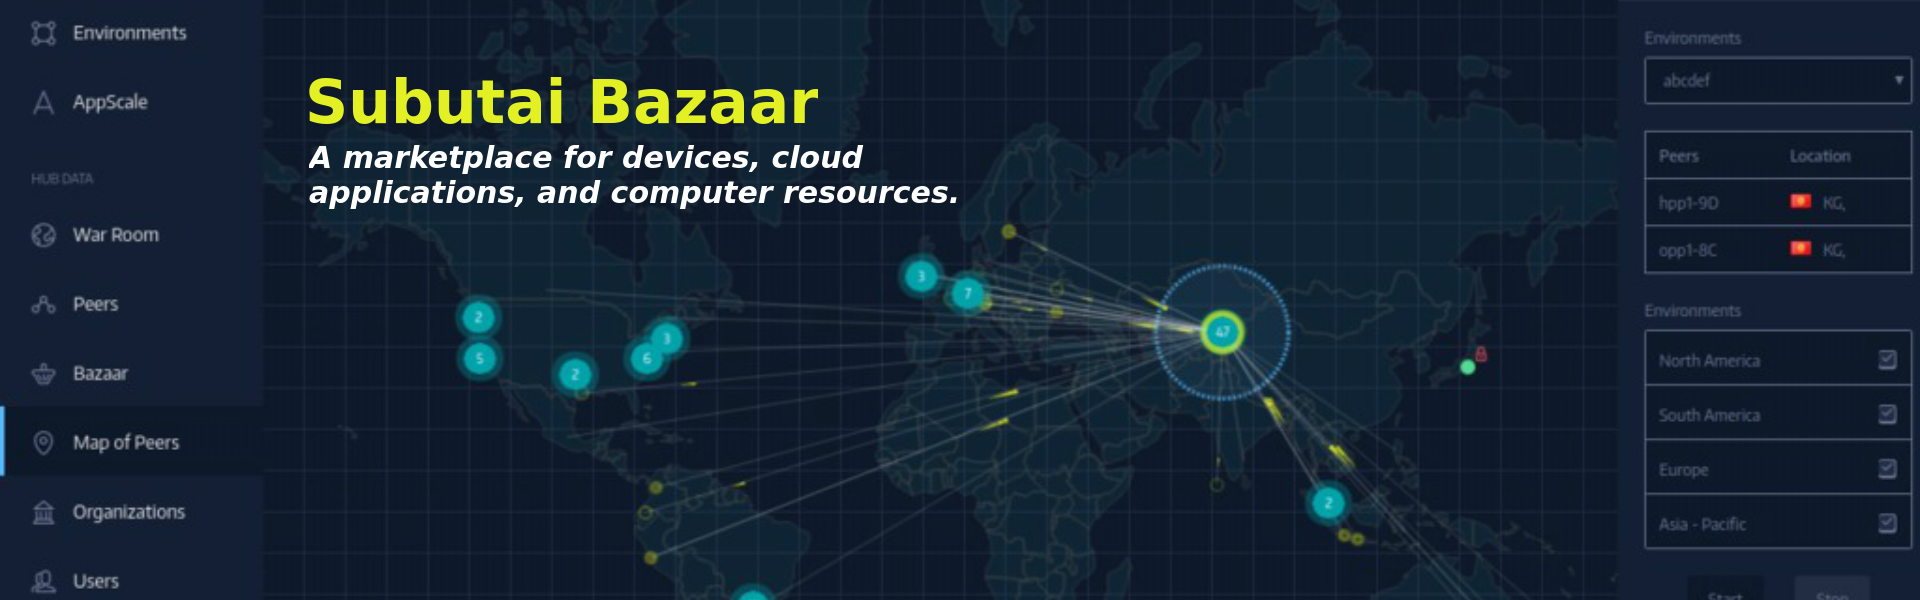
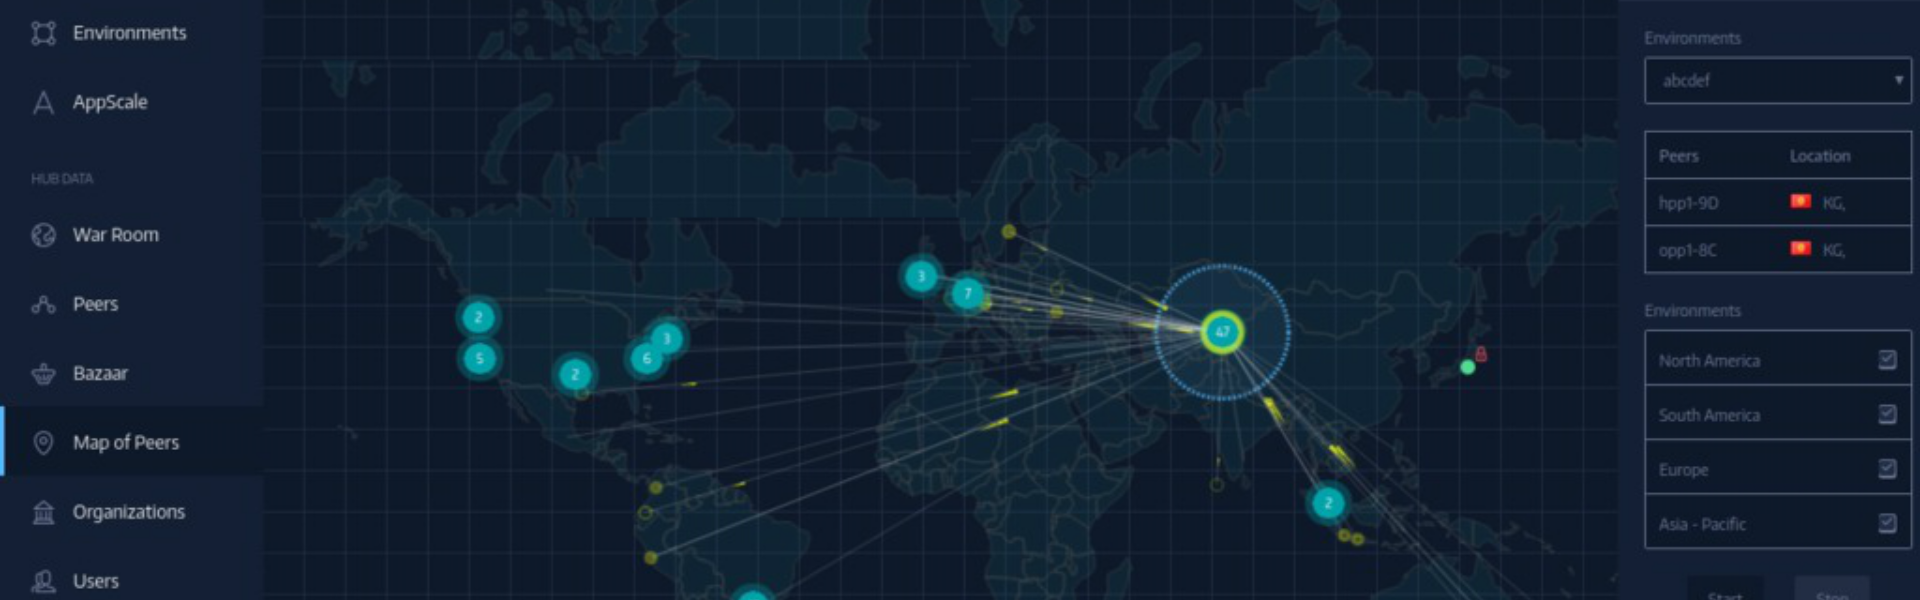
new changes in carousel

Changed region(s): [[0.1562, 0.24, 0.5, 0.36], [0.1562, 0.12, 0.4375, 0.21]]

diff --git a/index.html b/index.html
@@ -115,24 +115,56 @@
 			    	<li data-target="#carousel-example-generic" data-slide-to="3"></li>
 			  	</ol>
 
-			  <!-- Wrapper for slides -->
+			   <!-- Wrapper for slides -->
 			  <div class="carousel-inner" role="listbox">
 			    <div class="item active">
-			     	<div class="item">
-					  	<img src="img/peers.png" alt="img" class="img-responsive" alt="Peer OS">
+			      <div class="item">
+					  <img src="img/peers.png" alt="img" class="img-responsive">
+						  <div class="carousel-caption">
+						  	<div class="box1">
+						    	<h3>Peer OS</h3>
+						    </div>
+						    <div class="box2">
+						    	<p>Open Source, container-based P2P Cloud and IoT software and firmware.</p>
+						    </div>
+						  </div>
 					</div>
 			    </div>
 			    <div class="item">
-			      	<img src="img/bazaar.png" alt="img" class="img-responsive" alt="Subutai Baazar">
+			      <img src="img/bazaar.png" alt="img" class="img-responsive">
+	    			<div class="carousel-caption">
+					  	<div class="box1">
+					    	<h3>Subutai Baazar</h3>
+					    </div>
+					    <div class="box2">
+					    	<p>A marketplace for devices, cloud applications, and computer resources.</p>
+					    </div>
+					</div>
 			    </div>
 			    <div class="item">
-			      	<img src="img/router.jpg" alt="img" class="img-responsive" alt="Blockchain Router">
+			      <img src="img/router.png" alt="img" class="img-responsive">
+	    			<div class="carousel-caption">
+						<div class="box1">
+					    	<h3>Blockchain Router</h3>
+					    </div>
+					    <div class="box2">
+					    	<p>Open hardware, “Green” token mining router, NAS, and IoT gateway.</p>
+					    </div>
+					</div>
 			    </div>
 			    <div class="item">
-			      	<img src="img/khan.png" alt="img" class="img-responsive" alt="Khan">	
+			      <img src="img/khan.png" alt="img" class="img-responsive">
+	    			<div class="carousel-caption">
+						<div class="box1">
+					    	<h3>Khan</h3>
+					    </div>
+					    <div class="box2">
+					    	<p>The token of the Subutai platform.</p>
+					    </div>
+					</div>
 			    </div>
 			  </div>
-			</div>
+
 
 		</div>
 	</div>

diff --git a/css/styles.css b/css/styles.css
@@ -87,6 +87,34 @@ section .carousel-inner .img-responsive{
 	width: 100%;
 }
 
+section .carousel-inner .box1{
+	height: 50px;
+	width: 50%;
+	background-color: #04192b;
+	text-align: center;
+
+}
+
+section .carousel-inner .box1 h3{
+	padding-top: 10px;
+	text-align: center;
+	font-weight: 700;
+}
+
+section .carousel-inner .box2{
+	height: 67px;
+	width: 100%;
+	background-color: #078DD0;
+	text-align: center;
+}
+
+section .carousel-inner .box2 p{
+	padding-top: 15px;
+	text-align: center;
+	font-size: 18px;
+}
+
+
 /*CSS Section 2 - GoodWill*/
 section .cont-part3{
 	background-color: #fff;
@@ -258,6 +286,37 @@ footer .cont-footer .icons-cont-footer i{
 	padding-top: 5px;	
 }
 
+/*CSS responsive*/
+
+@media (max-width: 480px){
+
+	section .carousel-inner .box1{
+		height: 40px;
+		width: 100%;
+		background-color: #04192b;
+		text-align: center;
+	}
+
+	section .carousel-inner .box1 h3{
+		padding-top: 10px;
+		text-align: center;
+		font-weight: 0;
+		font-size: 20px;
+	}
+
+	section .carousel-inner .box2{
+		height: 80px;
+		width: 100%;
+	}
+
+	section .carousel-inner .box2 p{
+		padding-top: 10px;
+		text-align: center;
+		padding-bottom: 10px;
+		font-size: 14px;
+	}
+}
+
 @media (max-width: 768px) { 
 	/*Navbar*/
 	.navbar-header{
@@ -391,7 +450,7 @@ footer .cont-footer .icons-cont-footer i{
 
 @media (max-height: 880px) and (max-width: 580px){
 	section .carousel-inner .img-responsive{
-		height: auto;
+		height: 200px;
 		width: 100%;
 	}
 	header {
